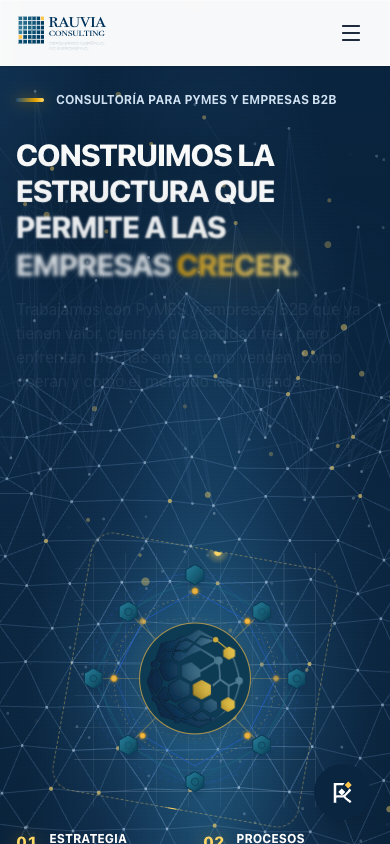
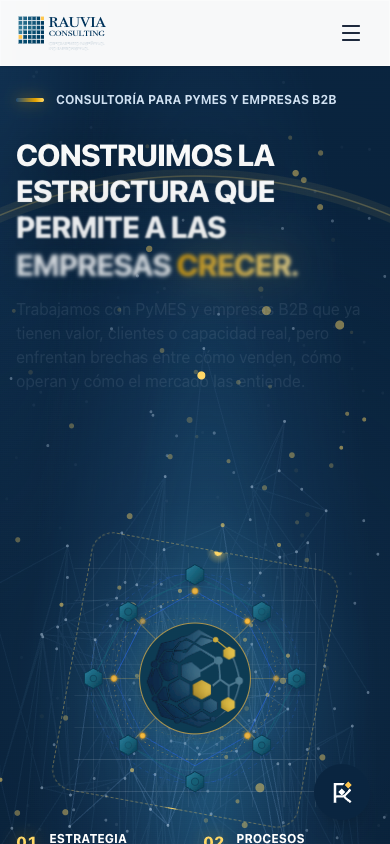
feat(footer): cierre de convergencia — la energía vuelve al núcleo AETHRYON (solo presentación)
Reutiliza el campo de convergencia (ConvergenceField) en modo inward: la retícula se arma al llegar al pie, los pulsos fluyen hacia el núcleo y lo encienden al llegar. CTA dorado con halo, frase con brillo, enlaces con contraste AA y entrada escalonada. Mismo texto y enlaces. Líneas base de páginas excluidas actualizadas (pie compartido) y evidencia del Hero recapturada, sin aprobar.

diff --git a/src/components/ConvergenceField.tsx b/src/components/ConvergenceField.tsx
@@ -17,7 +17,17 @@ const GROW = 1.9;
 const LEVELS = 8;
 const buckets: number[][] = Array.from({ length: LEVELS * 2 }, () => []);
 
-export default function HeroField() {
+type Props = {
+  /** Selector del elemento cuyo centro es el núcleo; si no existe se usa `origin`. */
+  coreSelector?: string;
+  /** Centro del núcleo como fracción del contenedor [x, y]. */
+  origin?: [number, number];
+  /** 'outward': la energía sale del núcleo (hero). 'inward': converge hacia el núcleo (footer). */
+  flow?: 'outward' | 'inward';
+  className?: string;
+};
+
+export default function ConvergenceField({ coreSelector = '.rv-aethryon-graphic', origin = [.5, .42], flow = 'outward', className = 'rv-hero-field' }: Props) {
   const ref = useRef<HTMLCanvasElement>(null);
 
   useEffect(() => {
@@ -35,6 +45,9 @@ export default function HeroField() {
     const ptr = { x: -9999, y: -9999, on: false };
     let t0 = performance.now();
     let last = t0;
+    let began = false;
+    let coreFlash = 0;
+    const inward = flow === 'inward';
     let spawnAt = 0;
     let raf = 0;
     let visible = true;
@@ -60,11 +73,11 @@ export default function HeroField() {
       ctx!.setTransform(dpr, 0, 0, dpr, 0, 0);
       scale = clamp(w / 1440, .55, 1.2);
 
-      const core = host!.querySelector('.rv-aethryon-graphic');
+      const core = host!.querySelector(coreSelector);
       if (core) {
         const c = core.getBoundingClientRect();
         cx = c.left - rect.left + c.width / 2; cy = c.top - rect.top + c.height / 2;
-      } else { cx = w * .5; cy = h * .42; }
+      } else { cx = w * origin[0]; cy = h * origin[1]; }
       R = Math.hypot(Math.max(cx, w - cx), Math.max(cy, h - cy)) * .96;
 
       // retícula triangular (cada nodo con 6 vecinos = panal)
@@ -93,16 +106,16 @@ export default function HeroField() {
     }
 
     function spawn() {
-      const starts = nodes.filter(n => n.d < R * .22);
-      if (!starts.length) return;
-      let cur = nodes.indexOf(starts[Math.floor(rnd() * starts.length)]);
+      const pool = inward ? nodes.filter(n => n.d > R * .5 && n.d < R * .85) : nodes.filter(n => n.d < R * .22);
+      if (!pool.length) return;
+      let cur = nodes.indexOf(pool[Math.floor(rnd() * pool.length)]);
       const path = [cur];
-      for (let k = 0; k < 40; k++) {
-        const ahead = nodes[cur].nb.filter(j => nodes[j].d > nodes[cur].d + 1);
-        if (!ahead.length) break;
-        cur = ahead[Math.floor(rnd() * ahead.length)];
+      for (let k = 0; k < 60; k++) {
+        const next = nodes[cur].nb.filter(j => inward ? nodes[j].d < nodes[cur].d - 1 : nodes[j].d > nodes[cur].d + 1);
+        if (!next.length) break;
+        cur = next[Math.floor(rnd() * next.length)];
         path.push(cur);
-        if (nodes[cur].a < .12) break;
+        if (inward ? nodes[cur].d < R * .08 : nodes[cur].a < .12) break;
       }
       if (path.length > 3) pulses.push({ path, seg: 0, t: 0, trail: [] });
     }
@@ -113,7 +126,8 @@ export default function HeroField() {
       const front = ((t - .1) / GROW) * R;
       // latido: cada 9 s un anillo de energía sale del núcleo
       const BEAT = 9, bt = still ? -1 : (t - (GROW + 2.2)) % BEAT;
-      const beatFront = t > GROW + 2.2 && bt >= 0 && bt < 2.4 ? (bt / 2.4) * R * .95 : -1;
+      const bp = bt / 2.4;
+      const beatFront = t > GROW + 2.2 && bt >= 0 && bt < 2.4 ? (inward ? 1 - bp : bp) * R * .95 : -1;
       const ignAt = (d: number, sw: number) => still ? 0 : Math.max(
         Math.exp(-Math.pow((d - front) / (R * sw), 2)),
         beatFront > 0 ? Math.exp(-Math.pow((d - beatFront) / (R * sw * 1.1), 2)) * .85 : 0);
@@ -124,6 +138,14 @@ export default function HeroField() {
       const cg = ctx!.createRadialGradient(cx, cy, 0, cx, cy, R * .5 * br);
       cg.addColorStop(0, 'rgba(60,150,190,.30)'); cg.addColorStop(.35, 'rgba(30,74,116,.18)'); cg.addColorStop(1, 'rgba(30,74,116,0)');
       ctx!.fillStyle = cg; ctx!.fillRect(0, 0, w, h);
+
+      // destello del núcleo cuando llega energía
+      if (coreFlash > .01) {
+        const fg = ctx!.createRadialGradient(cx, cy, 0, cx, cy, R * .2);
+        fg.addColorStop(0, `rgba(${GOLD},${.42 * coreFlash})`); fg.addColorStop(1, `rgba(${GOLD},0)`);
+        ctx!.fillStyle = fg; ctx!.fillRect(cx - R * .2, cy - R * .2, R * .4, R * .4);
+        coreFlash *= Math.max(0, 1 - dt * 2.4);
+      }
 
       // posiciones
       const push = 150 * scale;
@@ -189,7 +211,7 @@ export default function HeroField() {
       }
 
       if (!still && beatFront > 0) {
-        const ba = clamp(1 - beatFront / (R * .95));
+        const ba = inward ? Math.sin(bp * Math.PI) : clamp(1 - bp);
         ctx!.strokeStyle = `rgba(${GOLD},${.5 * ba})`; ctx!.lineWidth = 1.5;
         ctx!.beginPath(); ctx!.arc(cx, cy, beatFront, 0, 6.283); ctx!.stroke();
         ctx!.strokeStyle = `rgba(${GOLD},${.12 * ba})`; ctx!.lineWidth = 16;
@@ -209,11 +231,11 @@ export default function HeroField() {
           const len = Math.max(1, Math.hypot(B.x - A.x, B.y - A.y));
           p.t += (speed * dt) / len;
           while (p.t >= 1 && p.path[p.seg + 2] !== undefined) { p.t -= 1; p.seg++; }
-          if (p.t >= 1) { pulses.splice(k, 1); continue; }
+          if (p.t >= 1) { if (inward) coreFlash = Math.min(1, coreFlash + .25); pulses.splice(k, 1); continue; }
           const a2 = nodes[p.path[p.seg]], b2 = nodes[p.path[p.seg + 1]];
           const x = a2.x + (b2.x - a2.x) * p.t, y = a2.y + (b2.y - a2.y) * p.t;
           p.trail.push([x, y]); if (p.trail.length > 16) p.trail.shift();
-          const fade = clamp(1.25 - nodes[p.path[p.seg]].d / R);
+          const fade = inward ? clamp(.35 + (1 - nodes[p.path[p.seg]].d / R) * 1.1) : clamp(1.25 - nodes[p.path[p.seg]].d / R);
           for (let q = 1; q < p.trail.length; q++) {
             ctx!.strokeStyle = `rgba(${GOLD},${(q / p.trail.length) * .8 * fade})`; ctx!.lineWidth = 2;
             ctx!.beginPath(); ctx!.moveTo(p.trail[q - 1][0], p.trail[q - 1][1]); ctx!.lineTo(p.trail[q][0], p.trail[q][1]); ctx!.stroke();
@@ -244,13 +266,12 @@ export default function HeroField() {
 
     layout();
     if (reduce) frame(performance.now(), true);
-    else start();
 
     const ro = new ResizeObserver(() => { layout(); if (reduce) frame(performance.now(), true); });
     ro.observe(host);
-    const io = new IntersectionObserver(([en]) => { visible = en.isIntersecting; if (visible) start(); }, { threshold: 0 });
+    const io = new IntersectionObserver(([en]) => { visible = en.isIntersecting; if (visible) { if (!began) { began = true; t0 = performance.now(); } start(); } }, { threshold: inward ? .25 : 0 });
     io.observe(host);
-    const onVis = () => { if (!document.hidden) start(); };
+    const onVis = () => { if (!document.hidden && began) start(); };
     document.addEventListener('visibilitychange', onVis);
     if (fine && !reduce) { host.addEventListener('pointermove', onMove); host.addEventListener('pointerleave', onLeave); }
 
@@ -262,5 +283,5 @@ export default function HeroField() {
     };
   }, []);
 
-  return <canvas ref={ref} className="rv-hero-field" aria-hidden="true" />;
+  return <canvas ref={ref} className={className} aria-hidden="true" />;
 }

diff --git a/src/components/Footer.tsx b/src/components/Footer.tsx
@@ -1,11 +1,27 @@
+import { useEffect, useRef } from "react";
 import Logo from "./Logo";
+import ConvergenceField from "./ConvergenceField";
+import "../styles/footerEpic.css";
 import { Link } from "react-router-dom";
 import { ArrowRight, Facebook, Instagram, Linkedin } from "lucide-react";
 import WhatsAppCTA from "./WhatsAppCTA";
 
 export default function Footer({mobileLayer=false}: {mobileLayer?:boolean}) {
+  const ref = useRef<HTMLElement>(null);
+
+  // Entrada del cierre al llegar a él (mejora progresiva: solo con IntersectionObserver y sin movimiento reducido).
+  useEffect(() => {
+    const el = ref.current;
+    if (!el || typeof IntersectionObserver === "undefined") return;
+    if (window.matchMedia("(prefers-reduced-motion: reduce)").matches) return;
+    el.classList.add("ft-armed");
+    const io = new IntersectionObserver(([en]) => { if (en.isIntersecting) { el.classList.add("ft-in"); io.disconnect(); } }, { threshold: 0.2 });
+    io.observe(el);
+    return () => { io.disconnect(); el.classList.remove("ft-armed", "ft-in"); };
+  }, []);
+
   return (
-    <footer className={(mobileLayer ? "rv-footer " : "") + "bg-rauvia-navy-dark text-white relative overflow-hidden flex flex-col min-h-[550px] md:min-h-[100svh] justify-between"}>
+    <footer ref={ref} className={(mobileLayer ? "rv-footer " : "") + "ft-epic bg-rauvia-navy-dark text-white relative overflow-hidden flex flex-col min-h-[550px] md:min-h-[100svh] justify-between"}>
       
       {/* Background Tech Pattern */}
       <div className="absolute inset-0 overflow-hidden">
@@ -18,16 +34,18 @@ export default function Footer({mobileLayer=false}: {mobileLayer?:boolean}) {
            />
          </Link>
       </div>
+      <div className="ft-veil" aria-hidden="true" />
+      <ConvergenceField flow="inward" origin={[0.5, 0.46]} className="ft-field" />
 
       <div className="max-w-[1600px] w-full mx-auto px-4 sm:px-6 lg:px-8 xl:px-12 pt-24 md:pt-32 pb-16 relative z-10 flex-grow flex flex-col justify-center">
         <div className="flex flex-col lg:grid lg:grid-cols-12 gap-16 lg:gap-8 items-center w-full">
           {/* Left Text / Main Message */}
           <div className="w-full lg:col-span-5 xl:col-span-4 order-1 lg:order-none text-center lg:text-left">
-            <p className="text-2xl sm:text-3xl lg:text-4xl font-medium leading-snug text-slate-300">
+            <p data-ft style={{"--i":0} as React.CSSProperties} className="ft-statement text-2xl sm:text-3xl lg:text-4xl font-medium leading-snug text-slate-300">
               No conectamos herramientas.<br className="hidden sm:block"/>
               Conectamos estrategia,<br className="hidden sm:block"/>
               procesos, tecnología y personas<br className="hidden sm:block"/>
-              en un sistema <span className="text-rauvia-gold font-bold">que genera resultados.</span>
+              en un sistema <span className="ft-gold text-rauvia-gold font-bold">que genera resultados.</span>
             </p>
           </div>
 
@@ -36,16 +54,16 @@ export default function Footer({mobileLayer=false}: {mobileLayer?:boolean}) {
           </div>
 
           {/* Right Text / Definition & CTA */}
-          <div className="w-full lg:col-span-5 xl:col-span-4 flex flex-col items-center lg:items-start text-center lg:text-left gap-6 border-t lg:border-t-0 lg:border-l border-slate-700/50 pt-8 lg:pt-0 lg:pl-10 order-3 lg:order-none">
+          <div data-ft style={{"--i":2} as React.CSSProperties} className="ft-side w-full lg:col-span-5 xl:col-span-4 flex flex-col items-center lg:items-start text-center lg:text-left gap-6 border-t lg:border-t-0 lg:border-l border-slate-700/50 pt-8 lg:pt-0 lg:pl-10 order-3 lg:order-none">
             <div>
-              <span className="text-rauvia-gold font-bold tracking-widest text-sm uppercase block mb-3">AETHRYON</span>
+              <span className="ft-label text-rauvia-gold font-bold tracking-widest text-sm uppercase block mb-3">AETHRYON</span>
               <p className="text-slate-400 text-sm md:text-base leading-relaxed max-w-sm">
                 El núcleo que transforma capacidad en estructura y estructura en crecimiento.
               </p>
             </div>
             <WhatsAppCTA 
               href="https://wa.me/525586494076" 
-              className="mt-4 flex items-center justify-center gap-2 bg-white hover:bg-slate-200 text-rauvia-navy-dark px-8 py-4 rounded text-sm font-bold tracking-wider transition-all min-h-[52px] w-full sm:w-auto"
+              className="ft-cta mt-4 flex items-center justify-center gap-2 bg-white hover:bg-slate-200 text-rauvia-navy-dark px-8 py-4 rounded text-sm font-bold tracking-wider transition-all min-h-[52px] w-full sm:w-auto"
             >
               INICIAR CONVERSACIÓN
               <ArrowRight className="w-4 h-4" />
@@ -56,7 +74,7 @@ export default function Footer({mobileLayer=false}: {mobileLayer?:boolean}) {
 
       {/* Bottom Bar */}
       <div className="w-full px-4 sm:px-6 lg:px-8 xl:px-12 pb-8 relative z-10">
-        <div className="max-w-[1600px] mx-auto flex flex-col md:grid md:grid-cols-3 items-center gap-8 md:gap-6 pt-8 border-t border-slate-800">
+        <div data-ft style={{"--i":4} as React.CSSProperties} className="ft-bar max-w-[1600px] mx-auto flex flex-col md:grid md:grid-cols-3 items-center gap-8 md:gap-6 pt-8 border-t border-slate-800">
           <div className="flex justify-center md:justify-start order-2 md:order-1 min-h-[44px] items-center">
             <Logo variant="footer" />
           </div>
@@ -80,7 +98,7 @@ export default function Footer({mobileLayer=false}: {mobileLayer?:boolean}) {
             </a>
           </div>
         </div>
-        <p className="max-w-[1600px] mx-auto mt-4 text-center text-xs text-slate-400">
+        <p data-ft style={{"--i":5} as React.CSSProperties} className="ft-credit max-w-[1600px] mx-auto mt-4 text-center text-xs text-slate-400">
           Experiencia digital desarrollada por{' '}
           <a href="https://rauvia.com.mx/" className="inline-flex items-center min-h-[44px] underline underline-offset-4 hover:text-white focus-visible:outline focus-visible:outline-2 focus-visible:outline-offset-4 focus-visible:outline-white">RAUVIA Consulting</a>
         </p>

diff --git a/src/styles/footerEpic.css b/src/styles/footerEpic.css
@@ -1,0 +1,75 @@
+/* Footer · cierre "convergencia". Mismo texto y enlaces; solo presentación.
+   Contrapunto del hero: allí la estructura nace del núcleo; aquí la energía converge de vuelta a AETHRYON.
+   Paleta RAUVIA: navy #0A2540 / #051320, azul #1E4A74, dorado #E6A300 / #FFD766.
+   Mejora progresiva: sin JS o con movimiento reducido todo se ve completo y estático. */
+
+.ft-epic { --ft-ease: cubic-bezier(.2, .7, .2, 1); isolation: isolate; }
+
+/* velo: viñeta que enfoca el núcleo y cuida la legibilidad en los bordes */
+.ft-veil {
+  position: absolute; inset: 0; z-index: 1; pointer-events: none;
+  background:
+    radial-gradient(60% 55% at 50% 46%, transparent 0%, rgba(5, 19, 32, .15) 45%, rgba(5, 19, 32, .78) 100%),
+    linear-gradient(180deg, rgba(5, 19, 32, .55) 0%, transparent 22%, transparent 70%, rgba(5, 19, 32, .75) 100%);
+}
+.ft-field { position: absolute; inset: 0; z-index: 2; width: 100%; height: 100%; pointer-events: none; display: block; }
+.ft-epic > .relative.z-10, .ft-epic > .z-10 { z-index: 4; }
+
+/* horizonte dorado superior */
+.ft-epic::before {
+  content: ''; position: absolute; left: 50%; top: 0; z-index: 5; width: min(72%, 1000px); height: 1px; transform: translateX(-50%); pointer-events: none;
+  background: linear-gradient(90deg, transparent, #E6A300, #FFD766, #E6A300, transparent); box-shadow: 0 0 44px 7px rgba(230, 163, 0, .3);
+}
+
+/* frase principal */
+.ft-statement { color: #e3edf8; text-shadow: 0 2px 34px rgba(5, 19, 32, .95), 0 0 2px rgba(5, 19, 32, .8); }
+.ft-gold {
+  background: linear-gradient(100deg, #E6A300 0%, #FFD766 32%, #fff4c9 50%, #FFD766 68%, #E6A300 100%); background-size: 240% 100%;
+  -webkit-background-clip: text; background-clip: text; -webkit-text-fill-color: transparent; color: #FFD766;
+  text-shadow: none; filter: drop-shadow(0 0 20px rgba(230, 163, 0, .35)); animation: ft-shimmer 7s linear infinite;
+}
+@keyframes ft-shimmer { from { background-position: 120% 0; } to { background-position: -120% 0; } }
+
+/* bloque AETHRYON + CTA */
+.ft-side { border-image: linear-gradient(90deg, transparent, rgba(255, 215, 102, .5), transparent) 1; }
+@media (min-width: 1024px) { .ft-side { border-image: linear-gradient(180deg, transparent, rgba(255, 215, 102, .6), transparent) 1; } }
+.ft-label { display: flex; align-items: center; justify-content: center; gap: .65rem; text-shadow: 0 0 18px rgba(230, 163, 0, .45); }
+@media (min-width: 1024px) { .ft-label { justify-content: flex-start; } }
+.ft-label::before { content: ''; width: 7px; height: 7px; border-radius: 50%; background: #E6A300; box-shadow: 0 0 0 0 rgba(230, 163, 0, .6); animation: ft-ping 2.4s ease-out infinite; flex-shrink: 0; }
+@keyframes ft-ping { 0% { box-shadow: 0 0 0 0 rgba(230, 163, 0, .6); } 70%, 100% { box-shadow: 0 0 0 10px rgba(230, 163, 0, 0); } }
+.ft-side p { color: #aebfd2; text-shadow: 0 1px 18px rgba(5, 19, 32, .9); }
+
+.ft-epic .ft-cta {
+  position: relative; overflow: hidden; isolation: isolate; color: #0A2540;
+  background-color: #F2B820; background-image: linear-gradient(135deg, #FFD766 0%, #F2B820 55%, #E6A300 100%);
+  box-shadow: 0 14px 34px -10px rgba(230, 163, 0, .65), 0 0 0 1px rgba(255, 255, 255, .25) inset;
+  animation: ft-halo 3.2s ease-out infinite; transition: transform .35s var(--ft-ease), box-shadow .35s var(--ft-ease);
+}
+@keyframes ft-halo { 0% { box-shadow: 0 14px 34px -10px rgba(230, 163, 0, .65), 0 0 0 0 rgba(230, 163, 0, .5), 0 0 0 1px rgba(255, 255, 255, .25) inset; } 70%, 100% { box-shadow: 0 14px 34px -10px rgba(230, 163, 0, .65), 0 0 0 18px rgba(230, 163, 0, 0), 0 0 0 1px rgba(255, 255, 255, .25) inset; } }
+.ft-epic .ft-cta:hover { transform: translateY(-2px); background-image: linear-gradient(135deg, #FFE08A 0%, #F6C334 55%, #E6A300 100%); animation: none; box-shadow: 0 20px 44px -10px rgba(230, 163, 0, .85), 0 0 0 1px rgba(255, 255, 255, .35) inset; }
+.ft-epic .ft-cta::after { content: ''; position: absolute; top: 0; bottom: 0; left: -60%; width: 40%; z-index: -1; pointer-events: none; background: linear-gradient(100deg, transparent, rgba(255, 255, 255, .7), transparent); transform: skewX(-18deg); }
+.ft-epic .ft-cta:hover::after { left: 130%; transition: left .9s var(--ft-ease); }
+.ft-epic .ft-cta svg { transition: transform .35s var(--ft-ease); }
+.ft-epic .ft-cta:hover svg { transform: translateX(5px); }
+.ft-epic .ft-cta:focus-visible, .ft-bar a:focus-visible { outline: 3px solid #FFD766; outline-offset: 3px; }
+
+/* barra inferior: la columna central toma el ancho que necesita para que los enlaces no se partan */
+@media (min-width: 768px) { .ft-epic .ft-bar { grid-template-columns: minmax(0, 1fr) auto minmax(0, 1fr); } }
+
+.ft-bar { border-image: linear-gradient(90deg, transparent, rgba(148, 180, 215, .35), rgba(255, 215, 102, .55) 50%, rgba(148, 180, 215, .35), transparent) 1; }
+.ft-epic .ft-bar a { color: #9fb2c8; transition: color .3s, text-shadow .3s, transform .3s var(--ft-ease); }
+.ft-epic .ft-bar a:hover { color: #FFD766; text-shadow: 0 0 18px rgba(230, 163, 0, .6); }
+.ft-epic .ft-bar a[aria-label]:hover { transform: translateY(-2px); }
+.ft-credit { color: #9fb2c8; text-shadow: 0 1px 14px rgba(5, 19, 32, .9); }
+.ft-epic .ft-credit a:hover { color: #FFD766; }
+
+/* entrada del cierre al llegar a él */
+.ft-armed:not(.ft-in) [data-ft] { opacity: 0; }
+.ft-in [data-ft] { animation: ft-rise 1.1s var(--ft-ease) backwards; animation-delay: calc(var(--i, 0) * 150ms + 250ms); }
+@keyframes ft-rise { from { opacity: 0; transform: translateY(22px); filter: blur(8px); } to { opacity: 1; transform: none; filter: none; } }
+
+@media (prefers-reduced-motion: reduce) {
+  .ft-epic *, .ft-epic *::before, .ft-epic *::after { animation: none !important; transition: none !important; }
+}
+
+@media (max-width: 767px) { .ft-field { opacity: .6; } }

diff --git a/src/components/HeroSection.tsx b/src/components/HeroSection.tsx
@@ -1,7 +1,7 @@
 import { Link } from "react-router-dom";
 import { ArrowRight, BookOpen, ChevronDown } from "lucide-react";
 import AethryonCore from "./AethryonCore";
-import HeroField from "./HeroField";
+import ConvergenceField from "./ConvergenceField";
 import { trackEvent } from "../lib/analytics";
 import "../styles/homeHero.css";
 import "../styles/homeHeroEpic.css";
@@ -10,7 +10,7 @@ export default function HeroSection() {
   return (
     <>
       <section className="rv-home-hero" aria-labelledby="home-hero-title">
-        <HeroField />
+        <ConvergenceField />
         <div className="rv-hero-container">
           <p className="rv-hero-eyebrow">CONSULTORÍA PARA PYMES Y EMPRESAS B2B</p>
           <div className="rv-hero-grid">

diff --git a/tests/fixtures/BASELINE_LOG.md b/tests/fixtures/BASELINE_LOG.md
@@ -42,3 +42,19 @@ Semánticos: 15 · Contenido: 20
 Motivo: Mejora visual de la home (capa frontera): mismo texto; cambia el marcado de Situación visible y se agrega la barra de avance
 Semánticos: 0 · Contenido: 1
 - rau004-main-baseline.json / contenido
+
+## 2026-11-23 · bf4eab0
+Motivo: Mejora visual del footer (cierre convergencia): mismo texto y enlaces; cambia el marcado del pie compartido (canvas decorativo y clases) en las páginas excluidas
+Semánticos: 0 · Contenido: 12
+- v72-excluded-html.json /sitio-web-comercial-para-pymes/index.html
+- v72-excluded-html.json /pagina-web-para-medicos-especialistas/index.html
+- v72-excluded-html.json /aviso-de-privacidad/index.html
+- v72-excluded-html.json /seo-local-para-medicos/index.html
+- v72-excluded-html.json /pagina-web-para-medicos/index.html
+- v72-excluded-html.json /pagina-web-para-consultorio-medico/index.html
+- v72-excluded-html.json /pagina-web-medicos-agenda-whatsapp/index.html
+- v72-excluded-html.json /casos/infraestructura-temporal-b2b/index.html
+- v72-excluded-html.json /terminos/index.html
+- v72-excluded-html.json /pagina-web-gratis-para-medicos/index.html
+- v72-excluded-html.json /sitio-web-servicios-especializados/index.html
+- v72-excluded-html.json /pagina-comercial-servicios-profesionales/index.html
